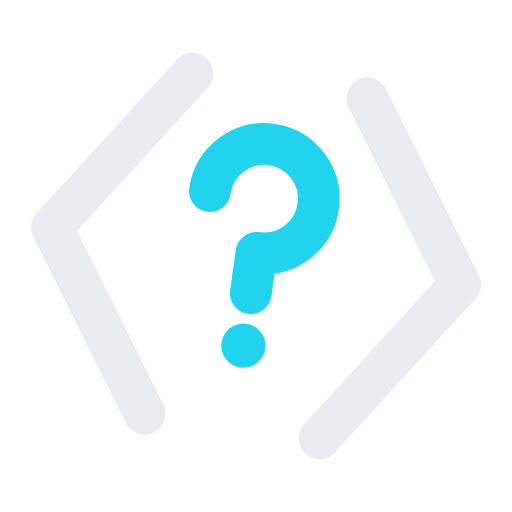
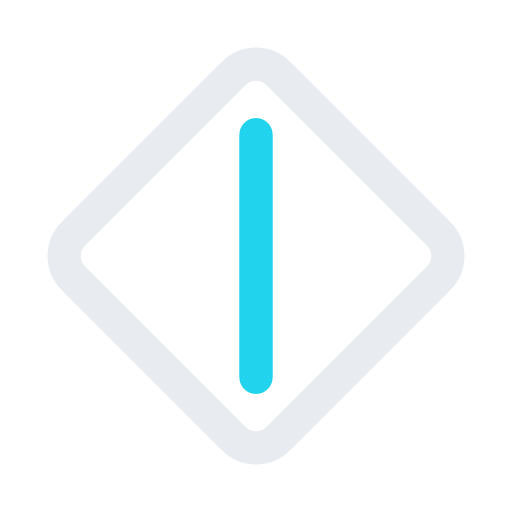
Brand mark: back to the diamond with the short inset line
Reverts the <?> experiment. It read well large and fell apart at 16px: a
question mark is three marks with a detached dot, and the dot goes first.
The diamond is one shape plus one stroke, so there is nothing to lose.

Not a plain revert — the line is the SHORT inset version (spans y 5.8 to
18.2, stopping 4.27 units clear of the diamond's points at each end)
rather than the original corner-to-corner line.

Discord icons re-rendered at scale 19.57 rather than the <?>'s 24.53. The
diamond's corners sit 10.47 units from centre against the brackets' 8.40,
so a 1:1 export would have put them 223px out against Discord's 256px
circular crop. They now land at 80% of that radius.

Claude-Session: https://claude.ai/code/session_01Syahd24sRpi3Cu6W89HgH9

Changed region(s): [[0.3438, 0.2188, 0.6875, 0.5625], [0.4062, 0.4688, 0.5312, 0.7812]]

diff --git a/src/components/layout/BrandMark.vue b/src/components/layout/BrandMark.vue
@@ -2,20 +2,17 @@
 /**
  * Type-based lockup standing in for a real logo.
  *
- * The glyph is `<?>` — Java's unbounded wildcard, and the closest thing to a
- * literal rendering of the mod's name. Two mirrored chevrons and a question
- * mark, the whole group rotated 8 degrees so it reads as placed rather than
- * constructed. All of the imprecision is in that one rotation: the brackets are
- * mirrored about x=12 and the question mark is centred on (12,12) by
- * construction, not by nudging.
+ * A rotated square split by a short accent line — a dealt card read at small
+ * size. The line deliberately stops 4.27 units short of the diamond's points at
+ * each end. Running it corner to corner made the mark look constructed; leaving
+ * the gap makes it look placed, and it is the only decision in the glyph.
  *
- * The question mark is built from a target height (9 units) rather than scaled,
- * so its stroke stays 1.7 like everything else. Its dot radius is floored at
- * 0.9 so it never ends up thinner than the stroke it belongs to.
+ * A <?> variant (Java's wildcard) was built and rejected: it read well large but
+ * fell apart at 16px, because a question mark is three marks with a detached dot
+ * and the dot is the first thing to go. See git history if you want it back.
  *
  * Inline SVG, so it costs no request and inherits currentColor and --c-accent.
- * public/og.jpg aside, this and public/favicon.svg are the only two places the
- * glyph exists — keep them identical.
+ * Keep this and public/favicon.svg identical.
  */
 withDefaults(defineProps<{ size?: 'sm' | 'md' }>(), { size: 'sm' })
 </script>
@@ -23,33 +20,23 @@ withDefaults(defineProps<{ size?: 'sm' | 'md' }>(), { size: 'sm' })
 <template>
   <span class="brand" :class="`brand--${size}`">
     <svg class="brand__glyph" viewBox="0 0 24 24" aria-hidden="true" focusable="false">
-      <g transform="rotate(8 12 12)">
-        <path
-          d="M8.4 5 3.6 12 8.4 19"
-          fill="none"
-          stroke="currentColor"
-          stroke-width="1.7"
-          stroke-linecap="round"
-          stroke-linejoin="round"
-        />
-        <path
-          d="M15.6 5 20.4 12 15.6 19"
-          fill="none"
-          stroke="currentColor"
-          stroke-width="1.7"
-          stroke-linecap="round"
-          stroke-linejoin="round"
-        />
-        <path
-          d="M9.77 9.64A2.23 2.23 0 1 1 12 11.87V13.53"
-          fill="none"
-          stroke="var(--c-accent)"
-          stroke-width="1.7"
-          stroke-linecap="round"
-          stroke-linejoin="round"
-        />
-        <circle cx="12" cy="15.69" r="0.9" fill="var(--c-accent)" />
-      </g>
+      <rect
+        x="4.6"
+        y="4.6"
+        width="14.8"
+        height="14.8"
+        rx="1.6"
+        transform="rotate(45 12 12)"
+        fill="none"
+        stroke="currentColor"
+        stroke-width="1.7"
+      />
+      <path
+        d="M12 5.8 12 18.2"
+        stroke="var(--c-accent)"
+        stroke-width="1.7"
+        stroke-linecap="round"
+      />
     </svg>
     <span class="brand__text">
       <span class="brand__word">Wildcard</span>

diff --git a/src/data/site.ts b/src/data/site.ts
@@ -1,4 +1,4 @@
-/**
+/**
  * Site-wide constants. Everything that might change independently of the
  * design lives here so it is a one-line edit, not a search-and-replace.
  */
@@ -23,7 +23,7 @@ export const SITE = {
  * PowerShell's Get-Content/Set-Content — that round-trips UTF-8 through the
  * system ANSI codepage and turns every em-dash and middot into mojibake.
  */
-export const BUILD_STAMP = '2026-08-22 · rev 122'
+export const BUILD_STAMP = '2026-08-22 · rev 123'
 
 export const LINKS = {
   /**
